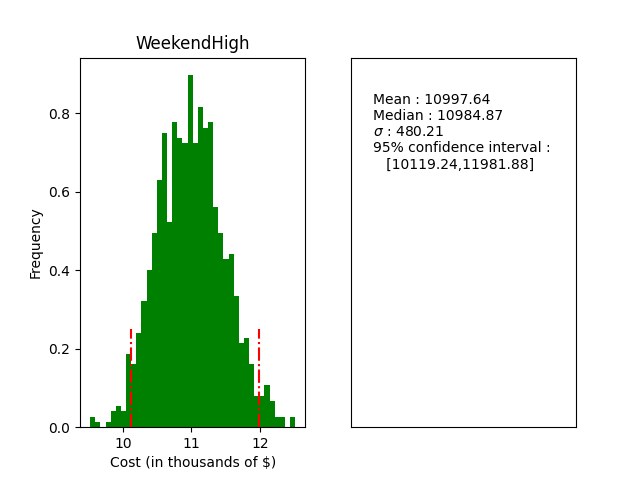
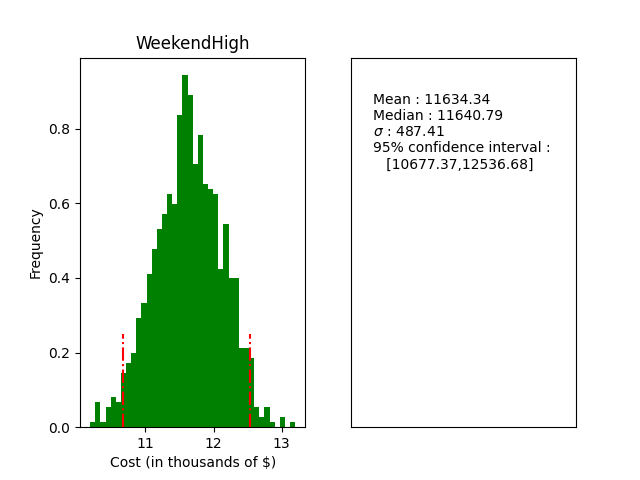
finished modified weekend high simulation

diff --git a/simulation.py b/simulation.py
@@ -4,7 +4,7 @@ import os
 
 from seaborn.palettes import color_palette
 from calculatecost import path_time, Cost
-from solve_lp import route_modifier
+from solve_lp import route_modifier, routes_solver
 from Lab6 import generateTaskTime
 from typing import List
 import tqdm as tq
@@ -75,9 +75,6 @@ def simulation(time_1: List[List[str]], time_2: List[List[str]], weekend: Option
     demand_df = pd.read_csv("data" + os.sep + "WoolworthsDemands.csv")
     duration_df = pd.read_csv("data" + os.sep + "WoolworthsTravelDurations.csv")
 
-    #duration_df.drop("Distribution Centre Auckland", axis=0, inplace=True)
-    duration_df.drop("Distribution Centre Auckland", axis=1, inplace=True)
-
     time_dfs = random_times(duration_df, Nruns)
     dem_dicts = bootstrap_demands(locations_df, demand_df, weekend, Nruns)
 
@@ -102,7 +99,7 @@ def bootstrap_demands(locations_df: pd.DataFrame, demand_df: pd.DataFrame, weeke
     demand_data['Weekday'] = demand_data.Date.dt.dayofweek 
     demand_data['Size'] = demand_data['Store'].map(lambda store: "Big" if locations_df.loc[store]['Type'] in ["Countdown"] else "Small")
 
-    bootstrap_val = lambda size: demand_data[(demand_data['Size'] == size) & (demand_data['Weekday'].isin([5]) if weekend else demand_data['Weekday'].isin(List(range(0,5))))].sample(n=1)['Demand']
+    bootstrap_val = lambda size: demand_data[(demand_data['Size'] == size) & (demand_data['Weekday'].isin([5]) if weekend else demand_data['Weekday'].isin(list(range(0,5))))].sample(n=1)['Demand']
     # Apply random samples
     demand_dict = {
         "Countdown" : "Big",
@@ -148,6 +145,8 @@ if __name__ == "__main__":
     # print(demands)
     # duration_df = pd.read_csv("data" + os.sep + "WoolworthsTravelDurations.csv")
     # print(random_times(duration_df, 10))
+    # demand_file = ""
+    # routs, x, y = routes_solver(demand_file)    
     routs = [['Countdown Sylvia Park', 'Countdown Greenlane', 'Countdown Onehunga'], ['Countdown St Johns', 'Countdown Meadowbank', 'Countdown Mt Wellington'], ['Countdown Highland Park', 'Countdown Aviemore Drive', 'Countdown Pakuranga'], ['Countdown Howick', 'Countdown Meadowlands', 'Countdown Botany Downs'], ['Countdown Newmarket', 'Countdown Auckland City', 'Countdown Victoria Street West'], ['Countdown Three Kings'], ['Countdown Lynfield', 'Countdown Blockhouse Bay', 'Countdown Pt Chevalier'], ['Countdown Birkenhead', 'Countdown Glenfield', 'Countdown Northcote'], ['Countdown Browns Bay', 'Countdown Mairangi Bay', 'Countdown Sunnynook'], ['Countdown Hauraki Corner', 'Countdown Milford', 'Countdown Takapuna'], ['Countdown Lynmall', 'Countdown Kelston', 'Countdown Henderson'], ['Countdown Westgate', 'Countdown Northwest', 'Countdown Hobsonville'], ['Countdown Manurewa', 'Countdown Airport', 'Countdown Mangere Mall'], ['Countdown Takanini', 'Countdown Roselands', 'Countdown Papakura'], ['Countdown Mangere East'], ['Countdown Grey Lynn', 'Countdown Ponsonby', 'Countdown Grey Lynn Central'], ['Countdown Mt Eden', 'Countdown St Lukes', 'Countdown Mt Roskill'], ['Countdown Lincoln Road', 'Countdown Te Atatu South', 'Countdown Te Atatu'], ['Countdown Manukau Mall', 'Countdown Manukau', 'Countdown Papatoetoe']]
     time_1 = routs[:len(routs)//2]
     time_2 = routs[:(len(routs)-len(routs)//2)]

diff --git a/solve_lp.py b/solve_lp.py
@@ -87,7 +87,7 @@ def routes_solver(input_data_filename: str) -> Tuple[List[pd.DataFrame], List[st
     list_of_routes = [data.path.iloc[int(v.name.split("_")[-1])] for v in prob.variables() if v.varValue == 1]
     list_of_trucks = [v.name.split("_")[0] for v in prob.variables() if v.varValue == 1]
 
-    return List_of_routes, List_of_trucks, value(prob.objective)
+    return list_of_routes, list_of_trucks, value(prob.objective)
 
 def route_modifier(input_data_filename: str, unsatisfied_nodes: List[str], N1: int, N2: int) -> Tuple[List[pd.DataFrame], List[pd.DataFrame]]:
     '''
@@ -124,7 +124,7 @@ def route_modifier(input_data_filename: str, unsatisfied_nodes: List[str], N1: i
     cost = data["cost"]
     if "weekend" in input_data_filename:
         df_locs = pd.read_csv("data" + os.sep + "WoolworthsLocations.csv")
-        weekdaystores = List(df_locs.loc[df_locs.Type!="Countdown"].Store)
+        weekdaystores = list(df_locs.loc[df_locs.Type!="Countdown"].Store)
         weekdaystores.remove('Distribution Centre Auckland')
         A = data.drop(["cost","path", "total_time", "demand"]+weekdaystores+dropstores,axis=1)
     else: 
